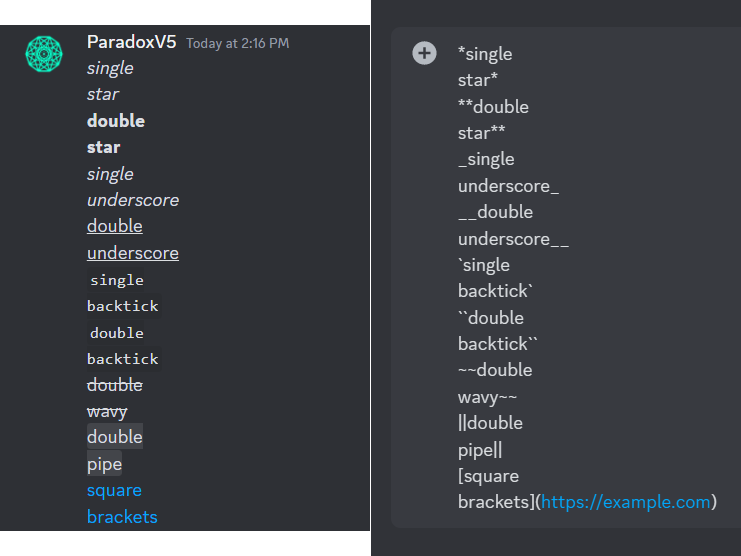
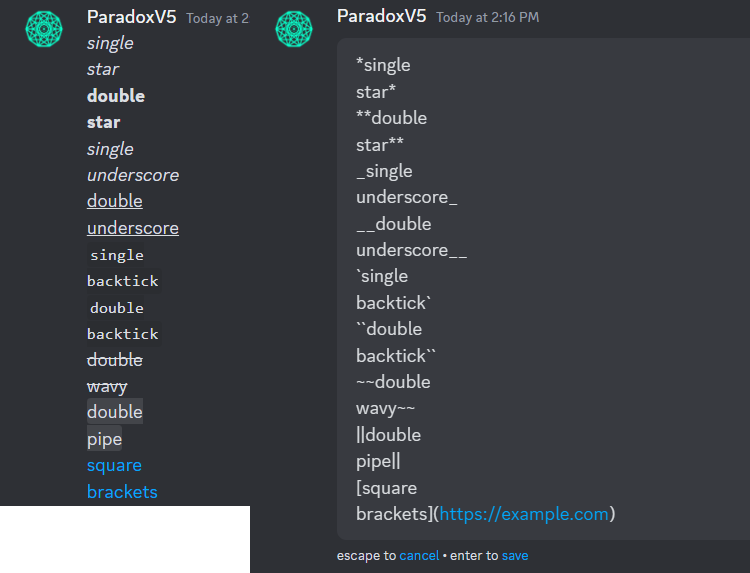
Fixes
* Add `list3.png` text’s missing lines
* Move text of `list3.png` to above image
* Retake `markdown2.png` right half
* Delete unused `spoiler2.png`

Changed region(s): [[0.0, 0.0, 0.7139, 1.0], [0.4656, 0.0612, 0.9622, 0.9173], [0.6208, 0.6115, 0.7139, 0.6727]]

diff --git a/README.md b/README.md
@@ -113,11 +113,13 @@ though Discord rounds indents up and allows extra spaces in the indent[^d]. Like
 the monospace font of a temporary [code block](#code-blocks) can aid if counting spaces gets tedious.
 Indents on the first list level is inconsistent between on Mobile compared to Desktop/Web at this writing[^1].
 
-> ![Indent mechanics, rendered](images/list3.png)
 > ```
 > * Level 1 line
 >  * Discords rounds up
 >   * but for consistency, you should match Level 0’s indent
+>    * same deal at other levels
+>     * this Level 2 has 4 characters for the index
+>      * so indents with 4 spaces or less are all level 3
 > * another Level 1
 >    * extra indents have no effect
 >     * other than requiring more spacebar strikes
@@ -128,6 +130,7 @@ Indents on the first list level is inconsistent between on Mobile compared to De
 >   * this Level 1 has 3 characters for the index
 >    * so indents with 3 spaces or less are all level 2
 > ```
+> ![Indent mechanics, rendered](images/list3.png)
 
 For Discord Markdown, only the first list line determines the list index (you can start with any ),
 thus the indices of your list doesn’t need to match (only the first index declares a bullet or the starting number),
